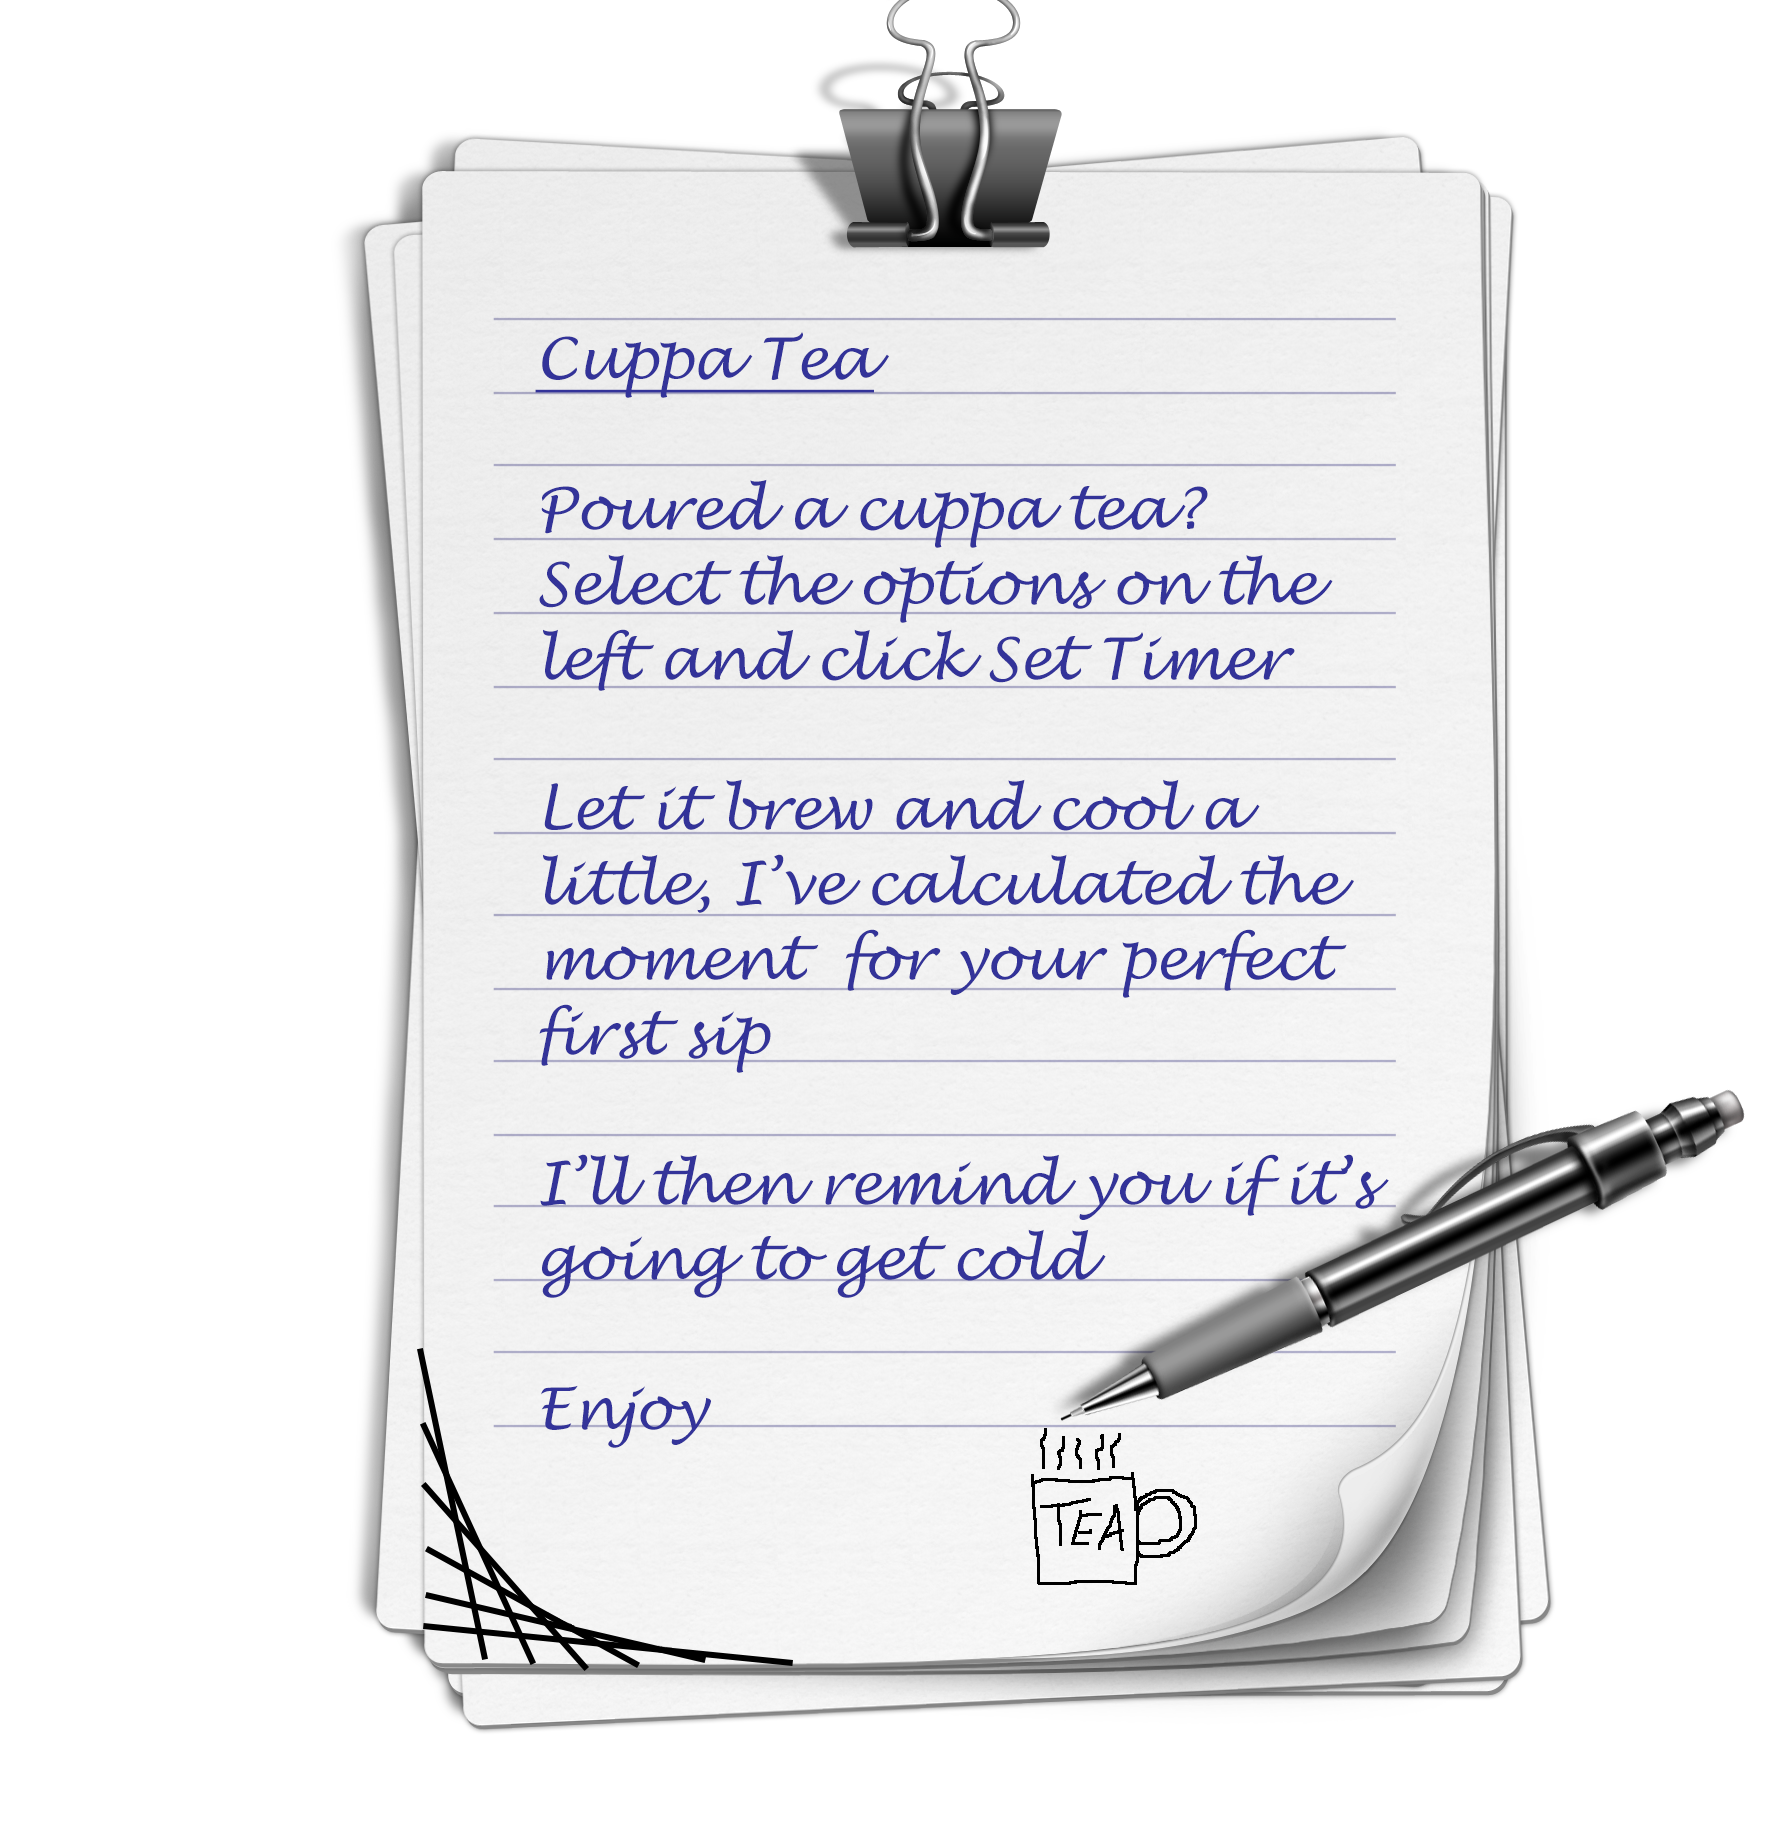
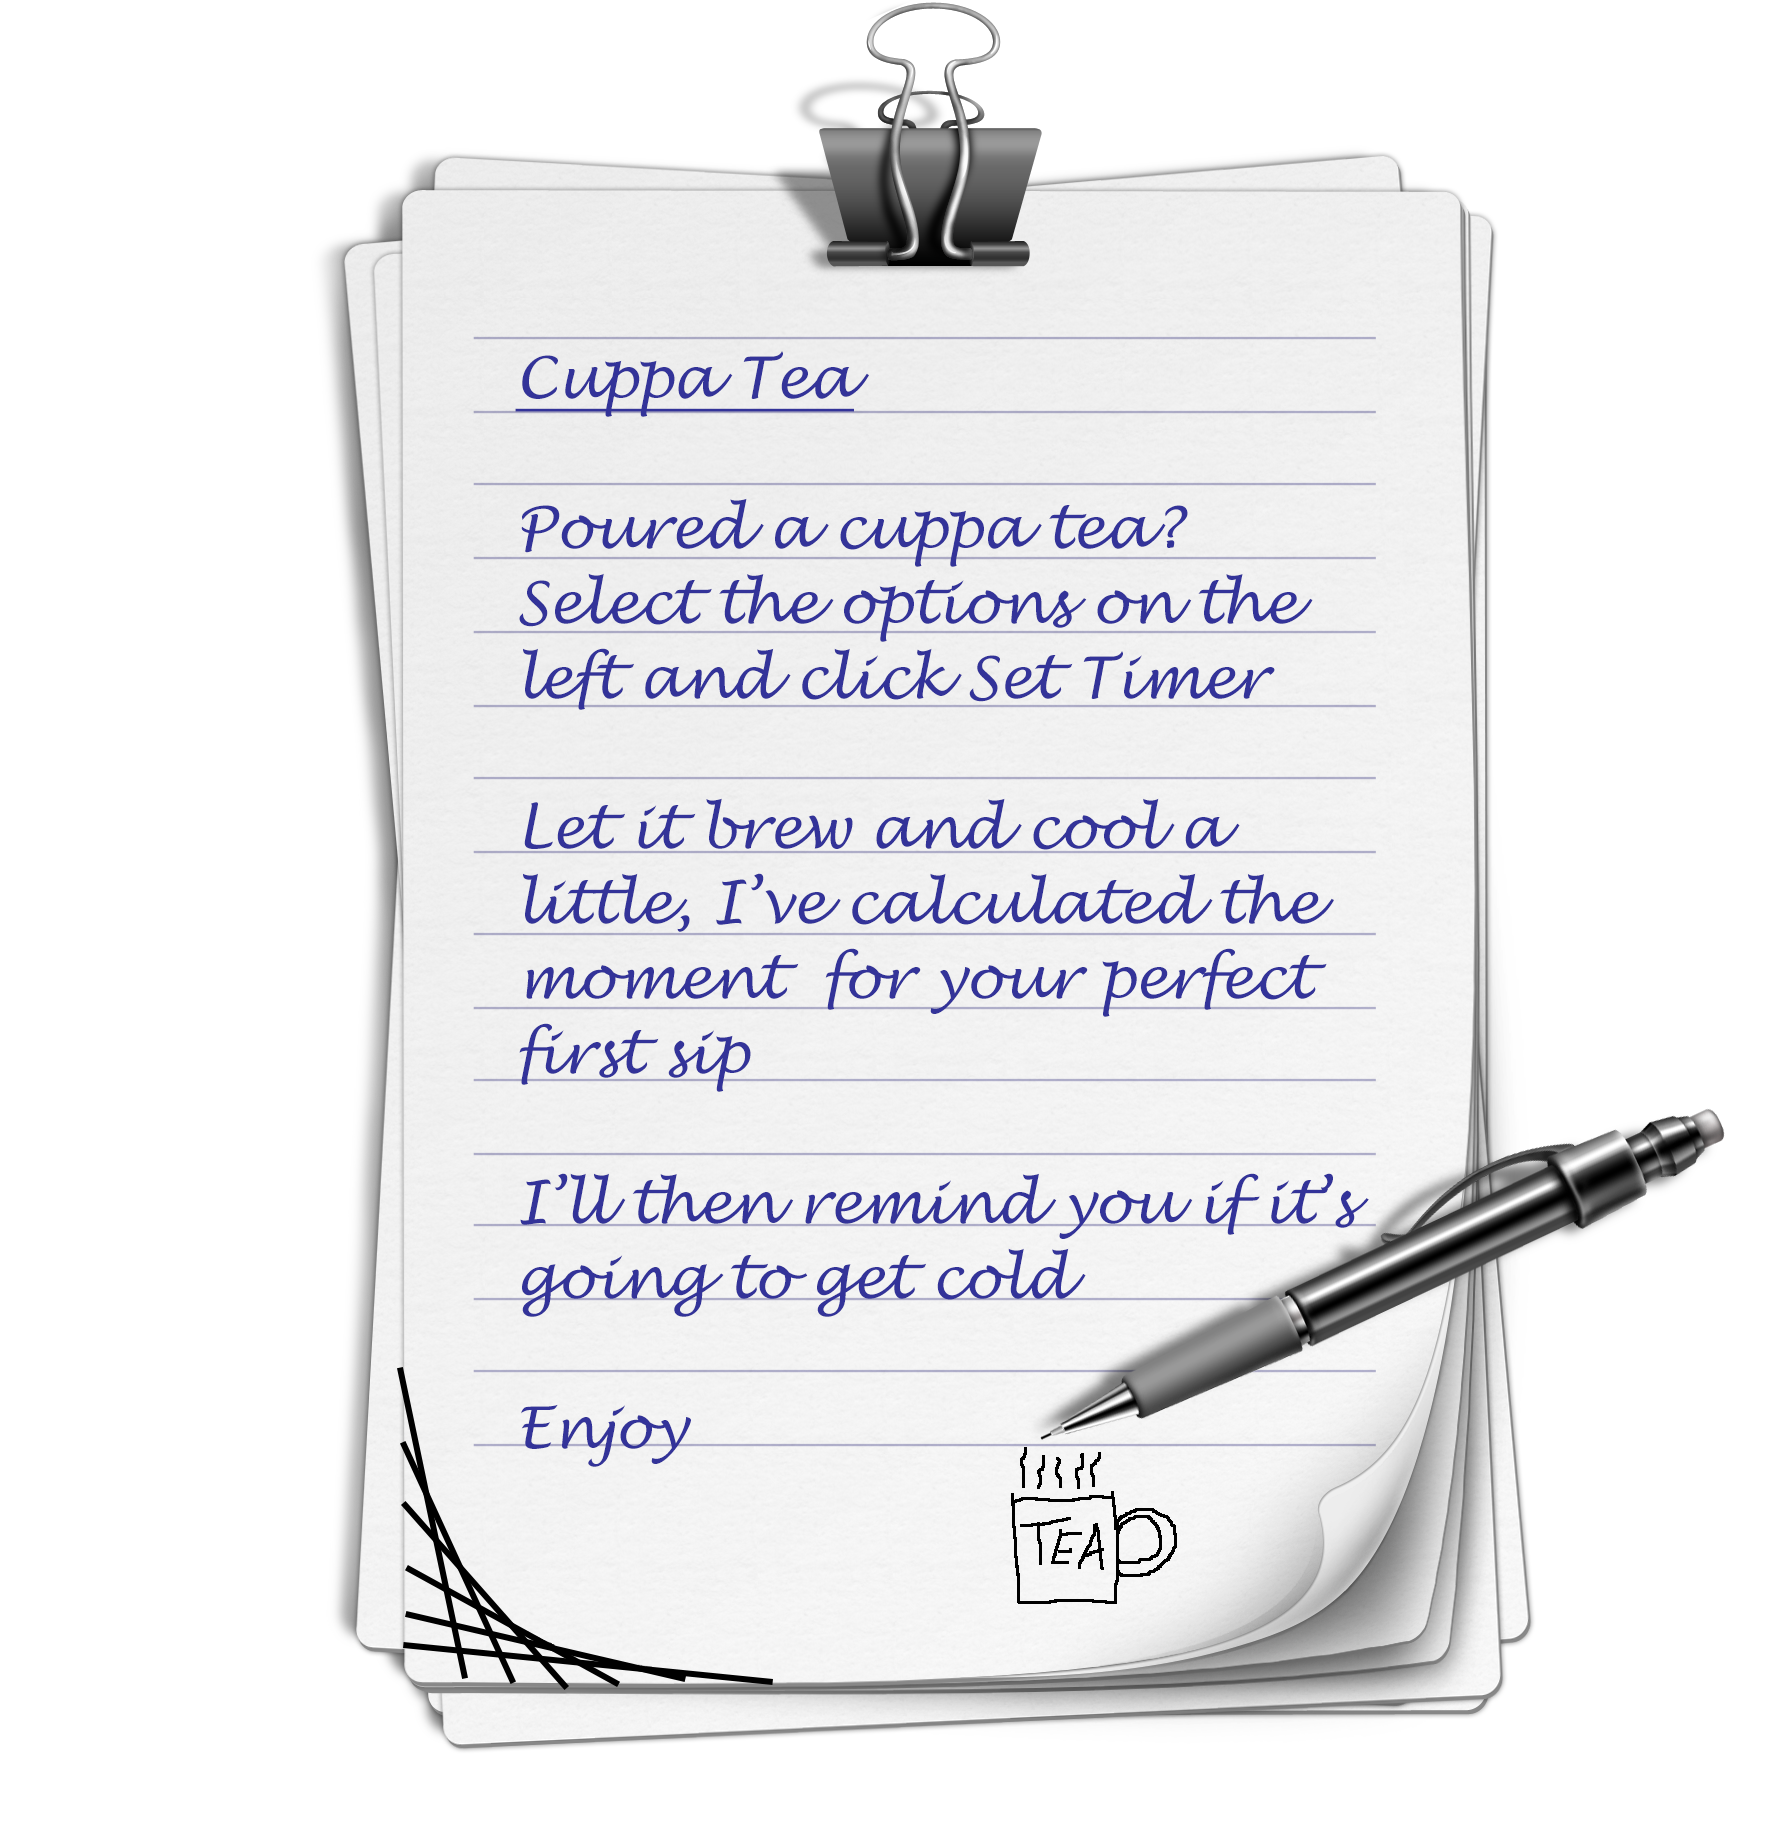
.

diff --git a/cuppaTea.css b/cuppaTea.css
@@ -13,7 +13,7 @@ body {
   height: 600px;
   width: 550px;
   left: -100px;
-  top: 0px;
+  top: 20px;
 }
 
 #dropdowns {
